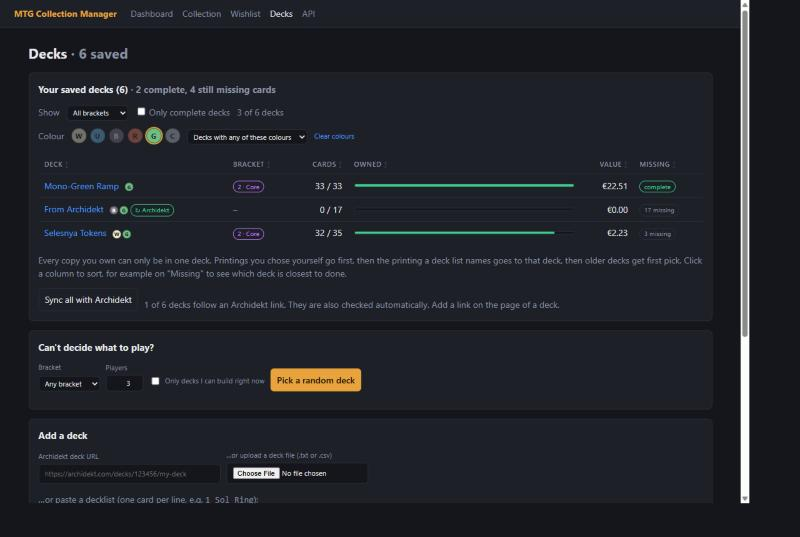
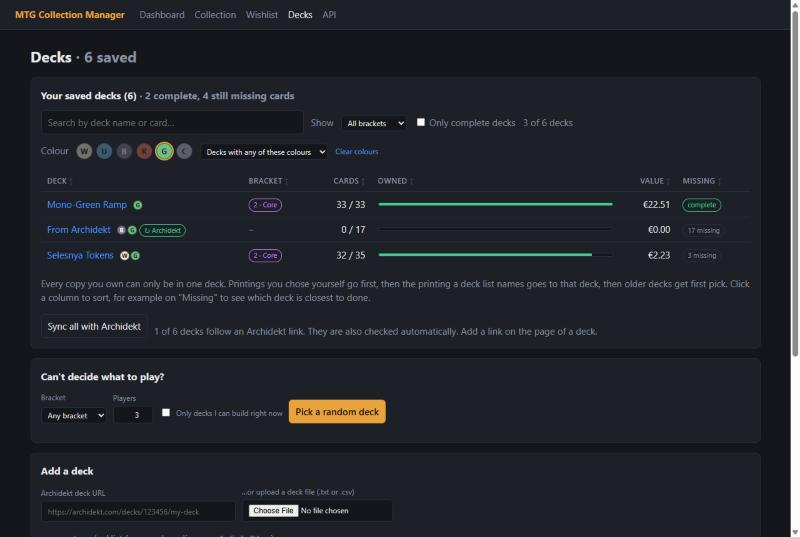
Decks: search on deck name or a card in the deck
- A search box above the saved decks finds decks by name or by a card in
  them (basic lands included); a deck found through its cards says which.
- Works together with the bracket, colour and complete filters, and keeps
  the search in the address.
- The API takes ?q= on the deck list.
- README screenshots updated.

diff --git a/app/templates/deck.html b/app/templates/deck.html
@@ -73,6 +73,8 @@
   {% set complete = summaries | selectattr('complete') | list | length %}
   <h2>Your saved decks ({{ summaries | length }}) <span class="muted">· {{ complete }} complete, {{ summaries | length - complete }} still missing cards</span></h2>
   <div class="toolbar search-bar">
+    <input id="deck-list-search" type="search" size="40" autocomplete="off" value="{{ request.query_params.get('q', '') }}"
+           placeholder="Search by deck name or card…" aria-label="Search your decks by name or by a card in them">
     <label class="muted" for="deck-bracket-filter">Show</label>
     <select id="deck-bracket-filter" aria-label="Filter decks by bracket">
       <option value="">All brackets</option>
@@ -115,9 +117,11 @@
     <tr data-bracket="{{ s.deck.bracket if s.deck.bracket else 'none' }}" data-complete="{{ 1 if s.complete else 0 }}"
         data-order="{{ loop.index }}" data-name="{{ s.deck.name }}" data-bracket-number="{{ s.deck.bracket or '' }}"
         data-cards="{{ s.total_cards }}" data-percent="{{ s.percent }}" data-value="{{ s.value }}" data-missing="{{ s.needed - s.usable }}"
-        data-colors="{{ '?' if s.deck.colors is none else s.deck.colors }}">
+        data-colors="{{ '?' if s.deck.colors is none else s.deck.colors }}"
+        data-card-names="{{ (card_names | default({})).get(s.deck.id, []) | join('|') }}">
       <td><a href="/decks/{{ s.deck.id }}">{{ s.deck.name }}</a>
-        {% if s.deck.colors is not none %}<span class="pips" title="Colour identity">{% for letter in s.deck.colors or "C" %}<span class="pip pip-{{ letter }}">{{ letter }}</span>{% endfor %}</span>{% endif %}{% if s.deck.archidekt_id %} <span class="badge linked" title="Follows its deck on Archidekt">↻ Archidekt</span>{% endif %}</td>
+        {% if s.deck.colors is not none %}<span class="pips" title="Colour identity">{% for letter in s.deck.colors or "C" %}<span class="pip pip-{{ letter }}">{{ letter }}</span>{% endfor %}</span>{% endif %}
+        <div class="muted small deck-hit" hidden></div>{% if s.deck.archidekt_id %} <span class="badge linked" title="Follows its deck on Archidekt">↻ Archidekt</span>{% endif %}</td>
       <td>{% if s.bracket_name %}<span class="badge bracket">{{ s.deck.bracket }} · {{ s.bracket_name }}</span>{% else %}<span class="muted">–</span>{% endif %}</td>
       <td class="num" title="Cards you have / cards in the deck, basic lands included">{{ s.total_owned }} / {{ s.total_cards }}</td>
       <td style="width: 35%"><div class="progress slim"><div style="width: {{ s.percent }}%"></div></div></td>
@@ -445,20 +449,48 @@
     if (!deckColorMode.value) deckColorMode.value = "exact";
   } catch (error) {}
 
+  // Search on the deck name or a card in the deck; a deck found through its cards says which ones.
+  const deckSearch = document.getElementById("deck-list-search");
+  const foldText = (text) => text.normalize("NFD").replace(/\p{M}/gu, "").toLowerCase();
+  const deckTexts = new Map(deckListRows.map((row) => [row, {
+    name: foldText(row.dataset.name),
+    cards: row.dataset.cardNames ? row.dataset.cardNames.split("|").map((card) => [card, foldText(card)]) : [],
+  }]));
+
+  function searchHit(row, words) {
+    if (words.length === 0) return { match: true, cards: [] };
+    const text = deckTexts.get(row);
+    if (words.every((word) => text.name.includes(word))) return { match: true, cards: [] };
+    const cards = text.cards.filter(([, folded]) => words.every((word) => folded.includes(word))).map(([card]) => card);
+    return { match: cards.length > 0, cards };
+  }
+
   function filterDecks() {
     const chosen = chosenDeckColors();
     deckColorReset.hidden = chosen.length === 0;
+    const words = foldText(deckSearch.value).split(/\s+/).filter(Boolean);
     let shown = 0;
     for (const row of deckListRows) {
+      const hit = searchHit(row, words);
       const match =
+        hit.match &&
         (!bracketFilter.value || row.dataset.bracket === bracketFilter.value) &&
         (!completeFilter.checked || row.dataset.complete === "1") &&
         deckColorMatch(row.dataset.colors, chosen);
       row.hidden = !match;
       if (match) shown += 1;
+      const note = row.querySelector(".deck-hit");
+      note.hidden = hit.cards.length === 0;
+      note.textContent = hit.cards.length
+        ? "has " + hit.cards.slice(0, 3).join(", ") + (hit.cards.length > 3 ? ` and ${hit.cards.length - 3} more` : "")
+        : "";
     }
+    const url = new URL(location.href);
+    if (deckSearch.value.trim()) url.searchParams.set("q", deckSearch.value.trim());
+    else url.searchParams.delete("q");
+    history.replaceState(null, "", url);
     try { localStorage.setItem("deck-colors", JSON.stringify({ colors: chosen, mode: deckColorMode.value })); } catch (error) {}
-    const filtered = bracketFilter.value || completeFilter.checked || chosen.length > 0;
+    const filtered = bracketFilter.value || completeFilter.checked || chosen.length > 0 || words.length > 0;
     document.getElementById("deck-filter-count").textContent = filtered ? `${shown} of ${deckListRows.length} decks` : "";
     document.getElementById("deck-filter-empty").hidden = shown > 0;
     document.getElementById("deck-list").hidden = shown === 0;
@@ -471,6 +503,7 @@
   } catch (error) {}
   bracketFilter.addEventListener("change", filterDecks);
   completeFilter.addEventListener("change", filterDecks);
+  deckSearch.addEventListener("input", filterDecks);
   for (const button of deckColorButtons) {
     button.addEventListener("click", () => {
       button.setAttribute("aria-pressed", String(button.getAttribute("aria-pressed") !== "true"));

diff --git a/app/static/style.css b/app/static/style.css
@@ -91,6 +91,7 @@ textarea { width: 100%; min-height: 180px; font-family: ui-monospace, Consolas, 
 button { cursor: pointer; background: var(--accent); border-color: var(--accent); color: #1a1205; font-weight: 600; }
 button.secondary { background: transparent; color: var(--text); border-color: var(--border); font-weight: 400; }
 button.small { padding: 3px 8px; font-size: 12px; }
+.deck-hit { margin-top: 2px; font-size: 11px; }
 button:hover { filter: brightness(1.1); }
 
 .top-cards { display: grid; grid-template-columns: repeat(auto-fill, minmax(104px, 1fr)); gap: 12px; }

diff --git a/app/services/decks.py b/app/services/decks.py
@@ -23,7 +23,7 @@ from app.models import (
     WishlistEntry,
 )
 from app.scryfall import CardRef, ScryfallClient, name_key
-from app.services.collection import CollectionRow, collection_rows, find_card
+from app.services.collection import CollectionRow, _fold, collection_rows, find_card
 from app.services.pricing import store_scryfall_card
 from app.services.wishlist import add_to_wishlist
 
@@ -754,6 +754,29 @@ async def sync_all_decks(session: Session, pause: float = 1.0) -> list[SyncResul
             logger.warning("Could not sync deck %s with Archidekt: %s", deck.name, exc)
             results.append(SyncResult(deck, error=str(exc)))
     return results
+
+
+def deck_card_names(session: Session) -> dict[int, list[str]]:
+    """The card names of every saved deck, basic lands included: {deck id: [names]}."""
+    names: dict[int, list[str]] = {}
+    for entry in session.exec(select(DeckEntry).order_by(DeckEntry.name)).all():
+        names.setdefault(entry.deck_id, []).append(entry.name)
+    for land in session.exec(select(DeckBasicLand).order_by(DeckBasicLand.name)).all():
+        names.setdefault(land.deck_id, []).append(land.name)
+    return names
+
+
+def search_decks(summaries: list[DeckSummary], card_names: dict[int, list[str]], query: str | None) -> list[DeckSummary]:
+    """Decks whose name, or one of whose cards, contains every word of `query` (accents do not matter)."""
+    words = _fold(query or "").split()
+    if not words:
+        return summaries
+    return [
+        summary
+        for summary in summaries
+        if all(word in _fold(summary.deck.name) for word in words)
+        or any(all(word in _fold(name) for word in words) for name in card_names.get(summary.deck.id, []))
+    ]
 
 
 async def fill_deck_colors(session: Session, scryfall: ScryfallClient) -> int:

diff --git a/app/routers/pages.py b/app/routers/pages.py
@@ -332,7 +332,7 @@ async def deck_page(
     await _fill_deck_colors(session, scryfall)
     summaries = decks.deck_summaries(session)
     return render(request, "deck.html", rows=None, deck=None, summaries=summaries, brackets=decks.BRACKETS,
-                  deck_data=_deck_data(summaries))
+                  deck_data=_deck_data(summaries), card_names=decks.deck_card_names(session))
 
 
 async def _fill_deck_colors(session: Session, scryfall: ScryfallClient) -> None:
@@ -380,6 +380,7 @@ async def deck_check(
     except decks.DeckError as exc:
         return render(request, "deck.html", rows=None, deck=None, summaries=summaries, decklist=decklist,
                       archidekt_url=archidekt_url, brackets=decks.BRACKETS, deck_data=_deck_data(summaries),
+                      card_names=decks.deck_card_names(session),
                       msg=str(exc), error=True)
     name, cards = loaded.name, loaded.cards
     if name is None and uploaded:
@@ -393,6 +394,7 @@ async def deck_check(
     return render(request, "deck.html", rows=rows, deck=None, summaries=summaries, deck_name=name,
                   decklist=_decklist_text(rows), archidekt_url=archidekt_url, left_out=loaded.left_out,
                   bracket=loaded.bracket, brackets=decks.BRACKETS, deck_data=_deck_data(summaries),
+                  card_names=decks.deck_card_names(session),
                   archidekt_id=loaded.archidekt_id,
                   include_basics=include_basics, include_tokens=include_tokens)
 

diff --git a/app/routers/api.py b/app/routers/api.py
@@ -346,18 +346,23 @@ async def list_decks(
     bracket: int | None = None,
     colors: str | None = None,
     color_match: Literal["any", "within", "exact"] = "any",
+    q: str | None = None,
     session: Session = Depends(get_session),
     scryfall: ScryfallClient = Depends(get_scryfall),
 ):
     """The saved decks; `bracket` (1-5) keeps only the decks in that Commander bracket, `colors`
-    (letters from WUBRG, C for colourless) the decks with any, `within` or `exact`ly those colours."""
+    (letters from WUBRG, C for colourless) the decks with any, `within` or `exact`ly those colours,
+    and `q` the decks whose name or one of whose cards contains every word."""
     try:
         await decks.fill_deck_colors(session, scryfall)
     except ScryfallError:
         session.rollback()  # the list still works, new decks just have no colours yet
+    summaries = decks.deck_summaries(session)
+    if q:
+        summaries = decks.search_decks(summaries, decks.deck_card_names(session), q)
     return [
         _deck_out(summary)
-        for summary in decks.deck_summaries(session)
+        for summary in summaries
         if (bracket is None or summary.deck.bracket == bracket)
         and (not colors or collection.color_match(summary.deck.colors, colors, color_match))
     ]

diff --git a/tests/test_api.py b/tests/test_api.py
@@ -470,3 +470,22 @@ def test_filter_decks_on_colour(client):
     client.post(f"/api/decks/{artifacts['id']}/cards", json={"name": "Fire // Ice"})
     assert names()["Artifacts"] == "UR"
     assert grixis["colors"] is None  # worked out when the decks are listed
+
+
+def test_search_decks_on_name_or_card(client):
+    client.post("/api/decks", json={"name": "Rabbit Tribal", "decklist": "1 Sol Ring\n1 Lim-Dûl's Vault\n10 Plains"})
+    client.post("/api/decks", json={"name": "Fire Nation", "decklist": "1 Fire // Ice\n1 Sol Ring"})
+
+    def names(q):
+        return [d["name"] for d in client.get("/api/decks", params={"q": q}).json()]
+
+    assert names("rabbit") == ["Rabbit Tribal"]  # deck name
+    assert names("sol ring") == ["Rabbit Tribal", "Fire Nation"]  # a card in both decks
+    assert names("lim-dul") == ["Rabbit Tribal"]  # accents do not matter
+    assert names("ice") == ["Fire Nation"]
+    assert names("plains") == ["Rabbit Tribal"]  # basic lands count too
+    assert names("nothing like this") == []
+
+    page = client.get("/deck", params={"q": "sol"}).text
+    assert 'id="deck-list-search"' in page and 'value="sol"' in page
+    assert 'data-card-names="Lim-Dûl&#39;s Vault|Sol Ring|Plains"' in page

diff --git a/README.md b/README.md
@@ -37,6 +37,8 @@ price.
 
 ![Printings without a price of their own borrow one from another printing, marked ≈ SET (Dragon Egg and Fellwar Stone)](docs/collection-borrowed.jpg)
 
+![Searching the saved decks for a card: every deck that runs Sol Ring, with the matching card under its name](docs/decks-search.jpg)
+
 ![The saved decks filtered on bracket 3: two of the six decks are left](docs/decks-filter.jpg)
 
 ![The saved decks filtered on colour: the decks with green in them, each with its colours](docs/decks-colors.jpg)
@@ -105,6 +107,7 @@ price.
 - One "Save changes" button per deck: bracket, basic lands and chosen printings are edited freely and stored together, with a reminder while there are unsaved changes
 - Commander bracket per deck: taken from Archidekt when the deck has one, and changeable at any time
 - Filter the list of saved decks by bracket, or show only the decks that are complete
+- Search the saved decks on deck name or on a card: "arcane signet" lists every deck that runs it, with the matching cards under the deck name
 - Filter the saved decks on colour: every deck shows the colour identity of its cards, and you pick decks with exactly, any of, or within the chosen colours
 - Sort the saved decks by how many cards they still miss, or by name, bracket, size, progress or value
 - Follow an Archidekt deck: a deck saved from an Archidekt link (or given one later) is brought up to date when the deck changes there, automatically every few hours or with "Sync now"; printings you chose and cards you took out are kept
@@ -186,7 +189,7 @@ product page. Two things to know:
 | `GET` | `/api/cards/{id}/prices` | Price history of one card |
 | `GET` | `/api/summary` | Collection value vs. wishlist cost |
 | `POST` | `/api/decks/check` | Have/missing overview for a decklist or Archidekt URL |
-| `GET` / `POST` | `/api/decks` | List saved decks (`?bracket=`, `?colors=WG&color_match=exact\|any\|within`) / save a deck and set its cards aside |
+| `GET` / `POST` | `/api/decks` | List saved decks (`?q=` deck name or card, `?bracket=`, `?colors=WG&color_match=exact\|any\|within`) / save a deck and set its cards aside |
 | `GET` | `/api/decks/random` | Pick random decks (`count`, `bracket`, `complete_only`) |
 | `GET` / `DELETE` | `/api/decks/{id}` | A saved deck with its cards / delete it and free its cards |
 | `PUT` | `/api/decks/{id}/cards/{entry_id}/printing` | Choose which printing a deck uses for a card |
